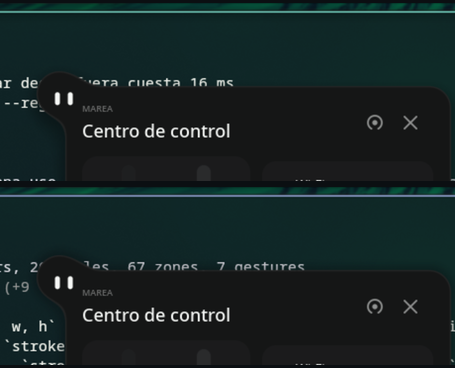
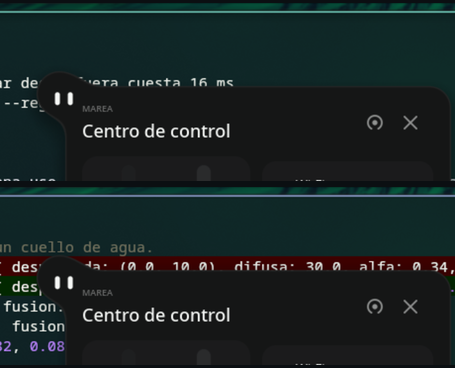
El halo, de menta y al 22 %: era una sombra blanca
Claro y al 45 % dejaba de ser un halo y era una sombra blanca, que es el
mismo problema de antes con otro color. Ahora es de su menta y al 22 %,
que es el número de la lámina —«oscurece el fondo un 22 % a dos píxeles
del filo»— puesto del derecho.

Y como ya todo lo de una sombra son cuentas, el panel deja de arrastrar
al halo: ella se abraza con 8 de difusa sin desplazarse, y la tarjeta
cae 2 y se extiende a 12, en negro y al 32 %.

diff --git a/ANIMACIONES.md b/ANIMACIONES.md
@@ -917,16 +917,20 @@ Marea ya pasó por aquí y lo dejó escrito en su tema:
 
 ![El halo](evidencia/halo.png)
 
-Aquí es lo mismo: `shadow: 0, 0, 13, 45%` de color claro. Sin desplazamiento, el
-halo la rodea entera en vez de caer hacia abajo, y lo que la separa del
-escritorio es luz y no suciedad.
+Aquí es lo mismo, y con su color: menta al **22 %**, que es el número de la
+lámina —«oscurece el fondo un 22 % a dos píxeles del filo»— puesto del derecho.
+Sin desplazamiento, el halo la rodea entera en vez de caer hacia un lado, y lo
+que la separa del escritorio es luz y no suciedad. Con blanco y al 45 % dejaba
+de ser un halo y era una sombra blanca, que es el mismo problema con otro color.
 
 Y cuando de ella sale un panel, vuelve a ser sombra: un halo claro de 390 × 410
-es una mancha. El color es una expresión, así que el mismo cuerpo va de halo a
-sombra según lo que lleve fuera:
+es una mancha. **Todo lo de una sombra es una cuenta**, así que el mismo cuerpo
+va de una cosa a la otra sin tener que elegir —el halo la abraza sin
+desplazarse; la sombra del panel cae un poco y se extiende—:
 
 ```plm
-shadow: 0, 0, 13, 45%, mix(ink, #05070a, clamp(max(card, tray) * 2, 0, 1))
+let panel = clamp(max(card, tray) * 2, 0, 1)
+shadow: 0, 2 * panel, 8 + 4 * panel, 22% + 10% * panel, mix(mint, #05070a, panel)
 ```
 
 Lo que sigue siendo de ella —la nota de la hora, el menú, la cápsula del
@@ -991,11 +995,14 @@ Dieciséis, todas arregladas en pleamar en vez de esquivadas aquí:
    decide el render, que es quien mira las zonas: si el clic no cayó encima de
    ninguna, cierra. Encima de ella sale su menú; dos dedos más allá, se cierra.
 
-16. **Una sombra solo podía ser negra.** Y una sombra negra sobre un escritorio
-   de ventanas oscuras no tiene nada que oscurecer: se ve como un cerco sucio
-   alrededor de lo que quería separar del fondo. Ahora `shadow` lleva color, y
-   es una expresión: el mismo cuerpo pasa de halo claro a sombra oscura según lo
-   que le salga fuera. El color va en los tres huecos que `color1` ya tenía
+16. **Una sombra solo podía ser negra, y sus números eran fijos.** Una sombra
+   negra sobre un escritorio de ventanas oscuras no tiene nada que oscurecer:
+   se ve como un cerco sucio alrededor de lo que quería separar del fondo.
+   Ahora `shadow` lleva color, y **todo lo suyo son expresiones**: el mismo
+   cuerpo pasa de halo de menta al 22 % a sombra oscura y desplazada según lo
+   que le salga fuera. Con un solo juego de números había que elegir entre el
+   halo que quiere una bolita y la sombra que quiere un panel de 390 × 410,
+   siendo el mismo cuerpo. El color va en los tres huecos que `color1` ya tenía
    libres, así que no cuesta ni un byte más por elemento.
 
 ## Lo siguiente
